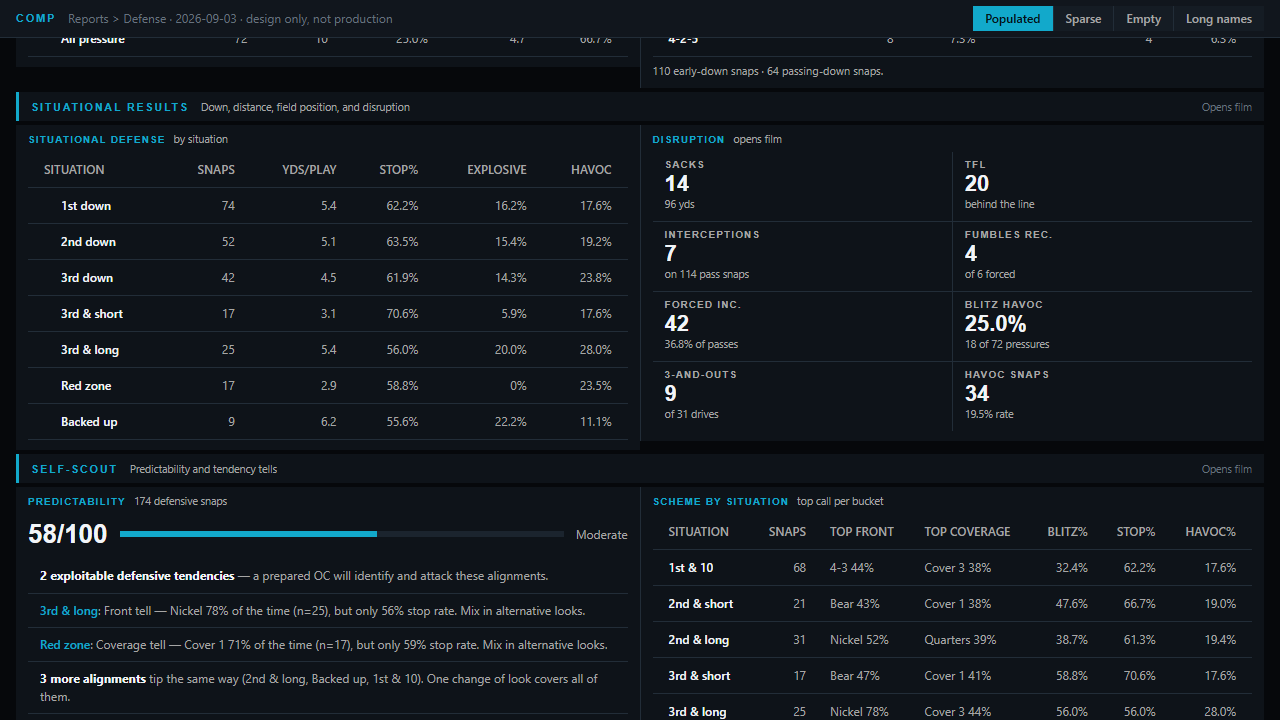
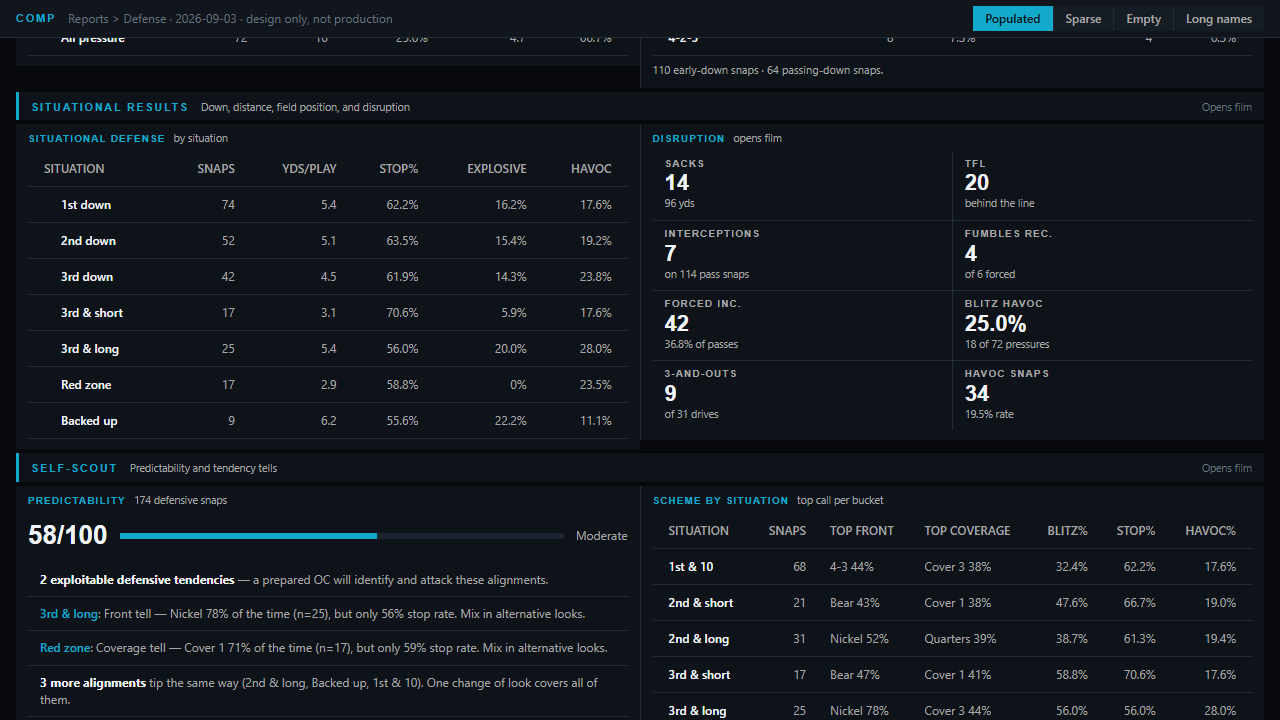
design: no truncated word anywhere, and fill the scorebug's empty middle
Coach rule adopted as a gate: if any word is truncated, the test failed. The
capture script now checks EVERY leaf text node on the page in both axes,
tooltip or not, and reports each offender. It immediately found two clips that
had survived visual review -- the predictability value "58/100" on every
capture, squeezed by its own meter, and the identity label "Base coverage" at
1440 with long names.

Nothing truncates now. Team names wrap inside their own bounded track rather
than ellipsing, so "Immaculate Heart of Mary Catholic Academy" reads in full
instead of becoming "IMMACULATE ...". Result across all eleven captures:
CLIPPED 0.

Score alignment survived the change. An intermediate pass used fit-content per
row, which made each row its own grid sized to its own name and split the two
totals (364 vs 287). The three rows now share one grid via display:contents,
so the name column is sized once from the longest name and both totals hold
one track -- measured identical in every state (1440: 456 with long names and
three-digit scores).

Dead space, both instances the coach flagged:
- The scorebug's middle was a 1fr void. It carries the defensive identity the
  rest of the report is about -- base front, base coverage and blitz rate, all
  values `_defensiveStats` already produces as the top row of each breakdown.
- The KPI band was eight tiles in two rows of four, each stretched to ~350px
  of mostly empty panel. Eight across in one row instead, which also keeps the
[…]

diff --git a/design-comps/reports-defense-2026-09-03/defense.html b/design-comps/reports-defense-2026-09-03/defense.html
@@ -81,35 +81,41 @@ button{font-family:inherit}
    bounded on its own and truncates with the full value in a tooltip.
    ─────────────────────────────────────────────────────────────────────── */
 .scorebug{
-  --sb-name:clamp(220px,26vw,340px); --sb-q:46px; --sb-tot:66px;
-  display:grid;grid-template-columns:auto minmax(0,1fr) auto;
-  grid-template-rows:auto auto auto;background:var(--gi-bd-panel)
+  --sb-name:clamp(260px,30vw,430px); --sb-q:44px; --sb-tot:64px;
+  display:grid;grid-template-columns:auto auto minmax(370px,1fr) auto;
+  background:var(--gi-bd-panel)
 }
-.scorebug>.sb-line{grid-column:1}
-.scorebug>.sb-line:first-child{padding-bottom:0}
-.scorebug>.sb-line+.sb-line{padding-top:0}
-.sb-story{grid-column:2;grid-row:1/4}
-.sb-meta{grid-column:3;grid-row:1/4}
-.sb-line{
+.scorebug>.sb-score{grid-column:1;grid-row:1}
+
+
+.sb-story{grid-column:2;grid-row:1}
+.sb-ident{grid-column:3;grid-row:1;display:grid;grid-auto-flow:column;grid-auto-columns:minmax(0,1fr);align-items:center;padding:0 var(--gi-4x);box-shadow:-1px 0 var(--gi-bd-line)}
+.sb-ident>div{min-width:0;padding:0 var(--gi-3x)}
+.sb-ident span{display:block;color:var(--gi-bd-muted);font:700 9.5px/1 var(--gi-cond);letter-spacing:.12em;text-transform:uppercase;white-space:normal}
+.sb-ident strong{display:block;margin-top:5px;color:var(--gi-bd-strong);font:700 19px/1.1 var(--gi-cond);white-space:normal;overflow-wrap:anywhere}
+.sb-ident small{display:block;margin-top:3px;color:var(--gi-bd-copy);font:400 10.5px/1.2 var(--gi-sans);white-space:normal}
+.sb-meta{grid-column:4;grid-row:1}
+.sb-score{
   display:grid;align-items:center;
-  grid-template-columns:var(--sb-name) repeat(4,var(--sb-q)) var(--sb-tot);
-  padding:7px var(--gi-4x) 9px;column-gap:0
+  grid-template-columns:fit-content(var(--sb-name)) repeat(4,var(--sb-q)) var(--sb-tot);
+  padding:7px var(--gi-4x) 9px
 }
-.sb-line>*{padding:2px 0;text-align:right}
+.sb-line{display:contents}
+.sb-score>*{padding:2px 0;text-align:right}
 .sb-hd{color:var(--gi-bd-muted);font:700 9.5px/1 var(--gi-cond);letter-spacing:.16em;text-transform:uppercase}
 .sb-hd.tot{color:var(--gi-bd-copy)}
 .sb-name{
   min-width:0;padding-right:var(--gi-3x)!important;text-align:left!important;
-  color:var(--gi-bd-strong);font:700 12px/1.25 var(--gi-cond);letter-spacing:.13em;text-transform:uppercase;
-  overflow:hidden;text-overflow:ellipsis;white-space:nowrap
+  color:var(--gi-bd-strong);font:700 12.5px/1.25 var(--gi-cond);letter-spacing:.04em;text-transform:uppercase;
+  white-space:normal;overflow-wrap:anywhere
 }
 .sb-q{color:var(--gi-bd-strong);font:600 15px/1.25 var(--gi-cond);font-variant-numeric:var(--gi-num-feat)}
 .sb-tot{color:var(--gi-bd-strong);font:700 26px/1.05 var(--gi-cond);font-variant-numeric:var(--gi-num-feat)}
 /* Both rows read the same. Dimming the losing team costs legibility to
    restate what the numbers already say. */
-.sb-story{display:flex;align-items:center;gap:14px;padding:0 18px;box-shadow:-1px 0 var(--gi-bd-line)}
+.sb-story{display:flex;align-items:center;gap:14px;padding:0 var(--gi-6x);box-shadow:-1px 0 var(--gi-bd-line);white-space:nowrap}
 .sb-story>strong{color:var(--gi-bd-cyan);font:700 30px/1 var(--gi-cond);font-variant-numeric:var(--gi-num-feat)}
-.sb-story>span{max-width:30ch;color:var(--gi-bd-copy);font:400 12px/1.35 var(--gi-sans)}
+.sb-story>span{max-width:none;white-space:normal;color:var(--gi-bd-copy);font:400 12px/1.35 var(--gi-sans)}
 .sb-story b{color:var(--gi-bd-strong);font-weight:600}
 .sb-meta{display:flex;flex-direction:column;justify-content:center;align-items:flex-end;
   padding:0 var(--gi-4x);text-align:right;box-shadow:-1px 0 var(--gi-bd-line)}
@@ -189,7 +195,7 @@ button{font-family:inherit}
 .dtoolbar .btn{margin-left:auto}
 
 /* KPI band */
-.kpis{display:grid;grid-template-columns:repeat(4,minmax(0,1fr));gap:1px;margin:0 0 4px;background:var(--gi-bd-line)}
+.kpis{display:grid;grid-template-columns:repeat(8,minmax(0,1fr));gap:1px;margin:0 0 4px;background:var(--gi-bd-line)}
 .kpi{padding:var(--gi-2x) var(--gi-3x) 10px;background:var(--gi-bd-panel)}
 .kpi span{display:block;color:var(--gi-bd-copy);font:700 9.5px/1 var(--gi-cond);letter-spacing:.15em;text-transform:uppercase}
 .kpi strong{display:block;margin-top:5px;color:var(--gi-bd-strong);font:700 30px/1 var(--gi-cond);
@@ -254,10 +260,10 @@ tbody tr.cut:focus-visible td:first-child::before{opacity:1}
 
 /* Self-scout */
 .pred{display:flex;align-items:center;gap:var(--gi-3x);padding:var(--gi-2x) 0 var(--gi-3x)}
-.pred .val{color:var(--gi-bd-strong);font:700 26px/1 var(--gi-cond);font-variant-numeric:var(--gi-num-feat)}
+.pred .val{flex:0 0 auto;color:var(--gi-bd-strong);font:700 26px/1.15 var(--gi-cond);font-variant-numeric:var(--gi-num-feat);white-space:nowrap}
 .pred .meter{flex:1 1 auto;height:6px;background:var(--gi-bd-control-active)}
 .pred .meter i{display:block;height:100%;background:var(--gi-bd-cyan)}
-.pred .lab{color:var(--gi-bd-copy);font:var(--gi-text-label);font-weight:400}
+.pred .lab{flex:0 0 auto;color:var(--gi-bd-copy);font:var(--gi-text-label);font-weight:400;white-space:nowrap}
 .recs{display:grid;gap:1px;background:var(--gi-bd-line)}
 .rec{padding:var(--gi-2x) var(--gi-3x);background:var(--gi-bd-panel);color:var(--gi-bd-copy);
   font:400 12px/1.45 var(--gi-sans)}
@@ -319,6 +325,7 @@ tbody tr.cut:focus-visible td:first-child::before{opacity:1}
      on Overview and Offense. The old rail reported offense KPIs (Success Rate,
      Plays per Phase) on a defensive report. -->
 <div class="scorebug" id="scorebug">
+  <div class="sb-score">
   <div class="sb-line">
     <div class="sb-hd"></div>
     <div class="sb-hd">Q1</div><div class="sb-hd">Q2</div><div class="sb-hd">Q3</div><div class="sb-hd">Q4</div>
@@ -334,6 +341,8 @@ tbody tr.cut:focus-visible td:first-child::before{opacity:1}
     <div class="sb-q">7</div><div class="sb-q">0</div><div class="sb-q">7</div><div class="sb-q">7</div>
     <div class="sb-tot" id="sbThem">21</div>
   </div>
+  </div>
+  <div class="sb-ident" id="sbIdent"></div>
   <div class="sb-story"><strong id="sbYpp">5.1</strong><span id="sbYppSub"><b>Yards per play allowed</b> 887&nbsp;yds &middot; 174&nbsp;snaps</span></div>
   <div class="sb-meta"><strong id="sbMeta">Full season &middot; 3 games</strong><span id="sbMetaSub">174 of 174 defensive snaps charted</span></div>
 </div>
@@ -590,6 +599,7 @@ const SEASON = {
     ['Blitz havoc', '25.0%', '18 of 72 pressures'], ['3-and-outs', '9', 'of 31 drives'],
     ['Havoc snaps', '34', '19.5% rate'],
   ],
+  ident: [['Base front','4-3','62 snaps · 36%'],['Base coverage','Cover 3','58 snaps · 33%'],['Blitz rate','41.4%','72 of 174 snaps']],
   pred: [58, 'Moderate', '174 defensive snaps'],
   recs: [
     ['', '<b>2 exploitable defensive tendencies</b> — a prepared OC will identify and attack these alignments.'],
@@ -670,6 +680,7 @@ const GAME = {
     ['Blitz havoc', '25.0%', '6 of 24 pressures'], ['3-and-outs', '4', 'of 10 drives'],
     ['Havoc snaps', '13', '24.1% rate'],
   ],
+  ident: [['Base front','4-3','18 snaps · 33%'],['Base coverage','Cover 3','18 snaps · 33%'],['Blitz rate','44.4%','24 of 54 snaps']],
   pred: [61, 'Moderate', '54 defensive snaps'],
   recs: [
     ['', '<b>1 exploitable defensive tendency</b> — a prepared OC will identify and attack this alignment.'],
@@ -704,6 +715,7 @@ const SPARSE = {
   faced: [['All runs', 5, '7.2 yds/play · 40.0% stop · 20.0% explosive'],
           ['All passes', 7, '5.3 yds/play · 71.4% stop · 14.3% explosive']],
   facedNote: '41.7% of snaps were runs.',
+  ident: [['Base front','4-3','5 snaps · 42%'],['Base coverage','Cover 3','4 snaps · 33%'],['Blitz rate','33.3%','4 of 12 snaps']],
   sparse: true,
 };
 
@@ -783,6 +795,8 @@ function applyScope(d, longNames) {
   $('#sbMeta').textContent = d.scopeLabel;
   $('#sbMetaSub').textContent = d.charted;
   $('.rhead .sub').textContent = d.headSub;
+  $('#sbIdent').innerHTML = d.ident
+    .map(([l, v, s]) => `<div><span>${l}</span><strong>${v}</strong><small>${s}</small></div>`).join('');
   const us = longNames ? 'Immaculate Heart of Mary Catholic Academy' : 'St. Joseph Mavericks';
   const them = longNames ? 'Our Lady of Perpetual Help Prep' : 'Northgate';
   $('#sbUsName').textContent = $('#sbUsName').title = us;
